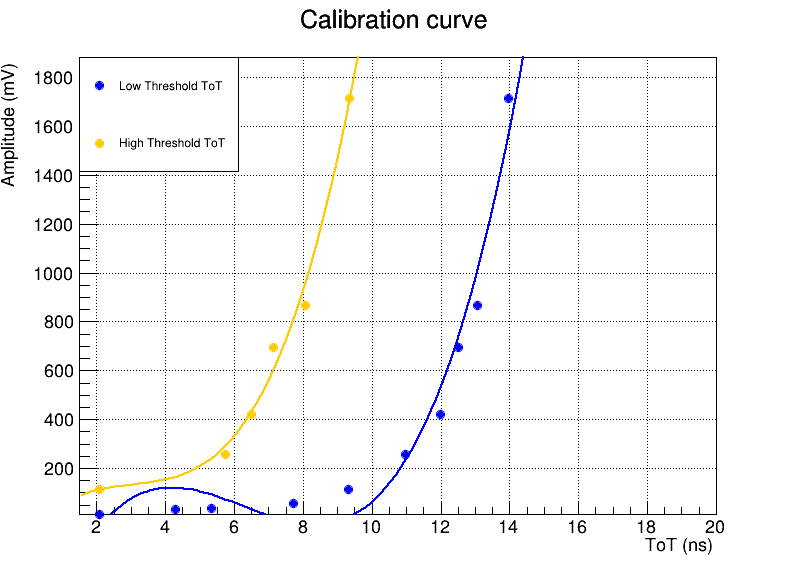
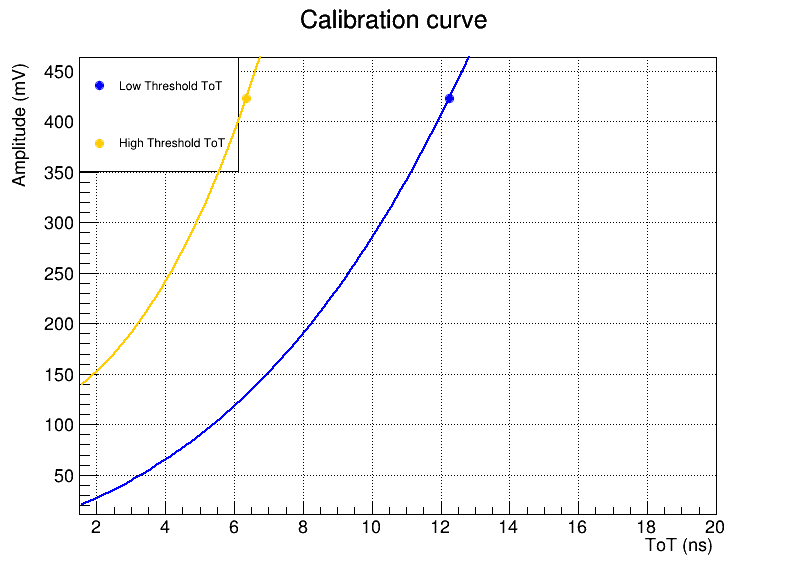
new commit

diff --git a/time_distribution_graph.C b/time_distribution_graph.C
@@ -19,7 +19,7 @@
 // Definizione delle costanti
 const double SATURATION_LIMIT = 2700;
 const int NUM_POINTS = 10000;
-const double GAUSSIAN_STDDEV = 0.8;
+const double GAUSSIAN_STDDEV = 0.6;
 
 // Funzione gaussiana
 double gaussian(double x, double mean, double stddev) {
@@ -30,7 +30,7 @@ double gaussian(double x, double mean, double stddev) {
 double Gaussian_sum(double x, const std::vector<double>& times) {
     double G = 0;
     for (double t : times) {
-        G += gaussian(x, t, GAUSSIAN_STDDEV) * exp(-0.3 * x);
+        G += gaussian(x, t, GAUSSIAN_STDDEV) * exp(-0.25 * x);
     }
     return G;
 }
@@ -203,7 +203,7 @@ void processFile(const std::string& filename, std::vector<double>& N, std::vecto
       legend->Draw();
       
       // Salvataggio del canvas su file
-      std::string outputFilename = "time_distribution_final" + filename + ".png";
+      std::string outputFilename = "time_distribution_test" + filename + ".png";
       canvas->SaveAs(outputFilename.c_str());
       
       // Pulizia della memoria
@@ -221,8 +221,9 @@ int main() {
         "T_smear_5275_2800.txt",
         "T_smear_67_150.txt", "T_smear_86_22.txt",
         "T_smear_4000.txt","T_smear_723.txt","T_smear_528.txt","T_smear_26539.txt", "T_smear_150.txt", "T_smear_12392.txt","T_smear_1000.txt", "T_smear_1457.txt","T_smear_16573.txt","T_smear_29824.txt", "T_smear_31027.txt","T_smear_34741.txt"};*/
-  std::vector<std::string> filenames = { "T_smear_1.txt","T_smear_2.txt","T_smear_3.txt","T_smear_5.txt", "T_smear_6.txt", "T_smear_9.txt", "T_smear_14.txt", "T_smear_15.txt","T_smear_16.txt","T_smear_10.txt"
+  std::vector<std::string> filenames = { "T_smear_1.txt","T_smear_10.txt"
         };
+  ///*"T_smear_2.txt","T_smear_3.txt","T_smear_5.txt", "T_smear_6.txt", "T_smear_9.txt", "T_smear_14.txt", "T_smear_15.txt","T_smear_16.txt"*
 
     std::vector<double> N;
     std::vector<double> tot_l;
